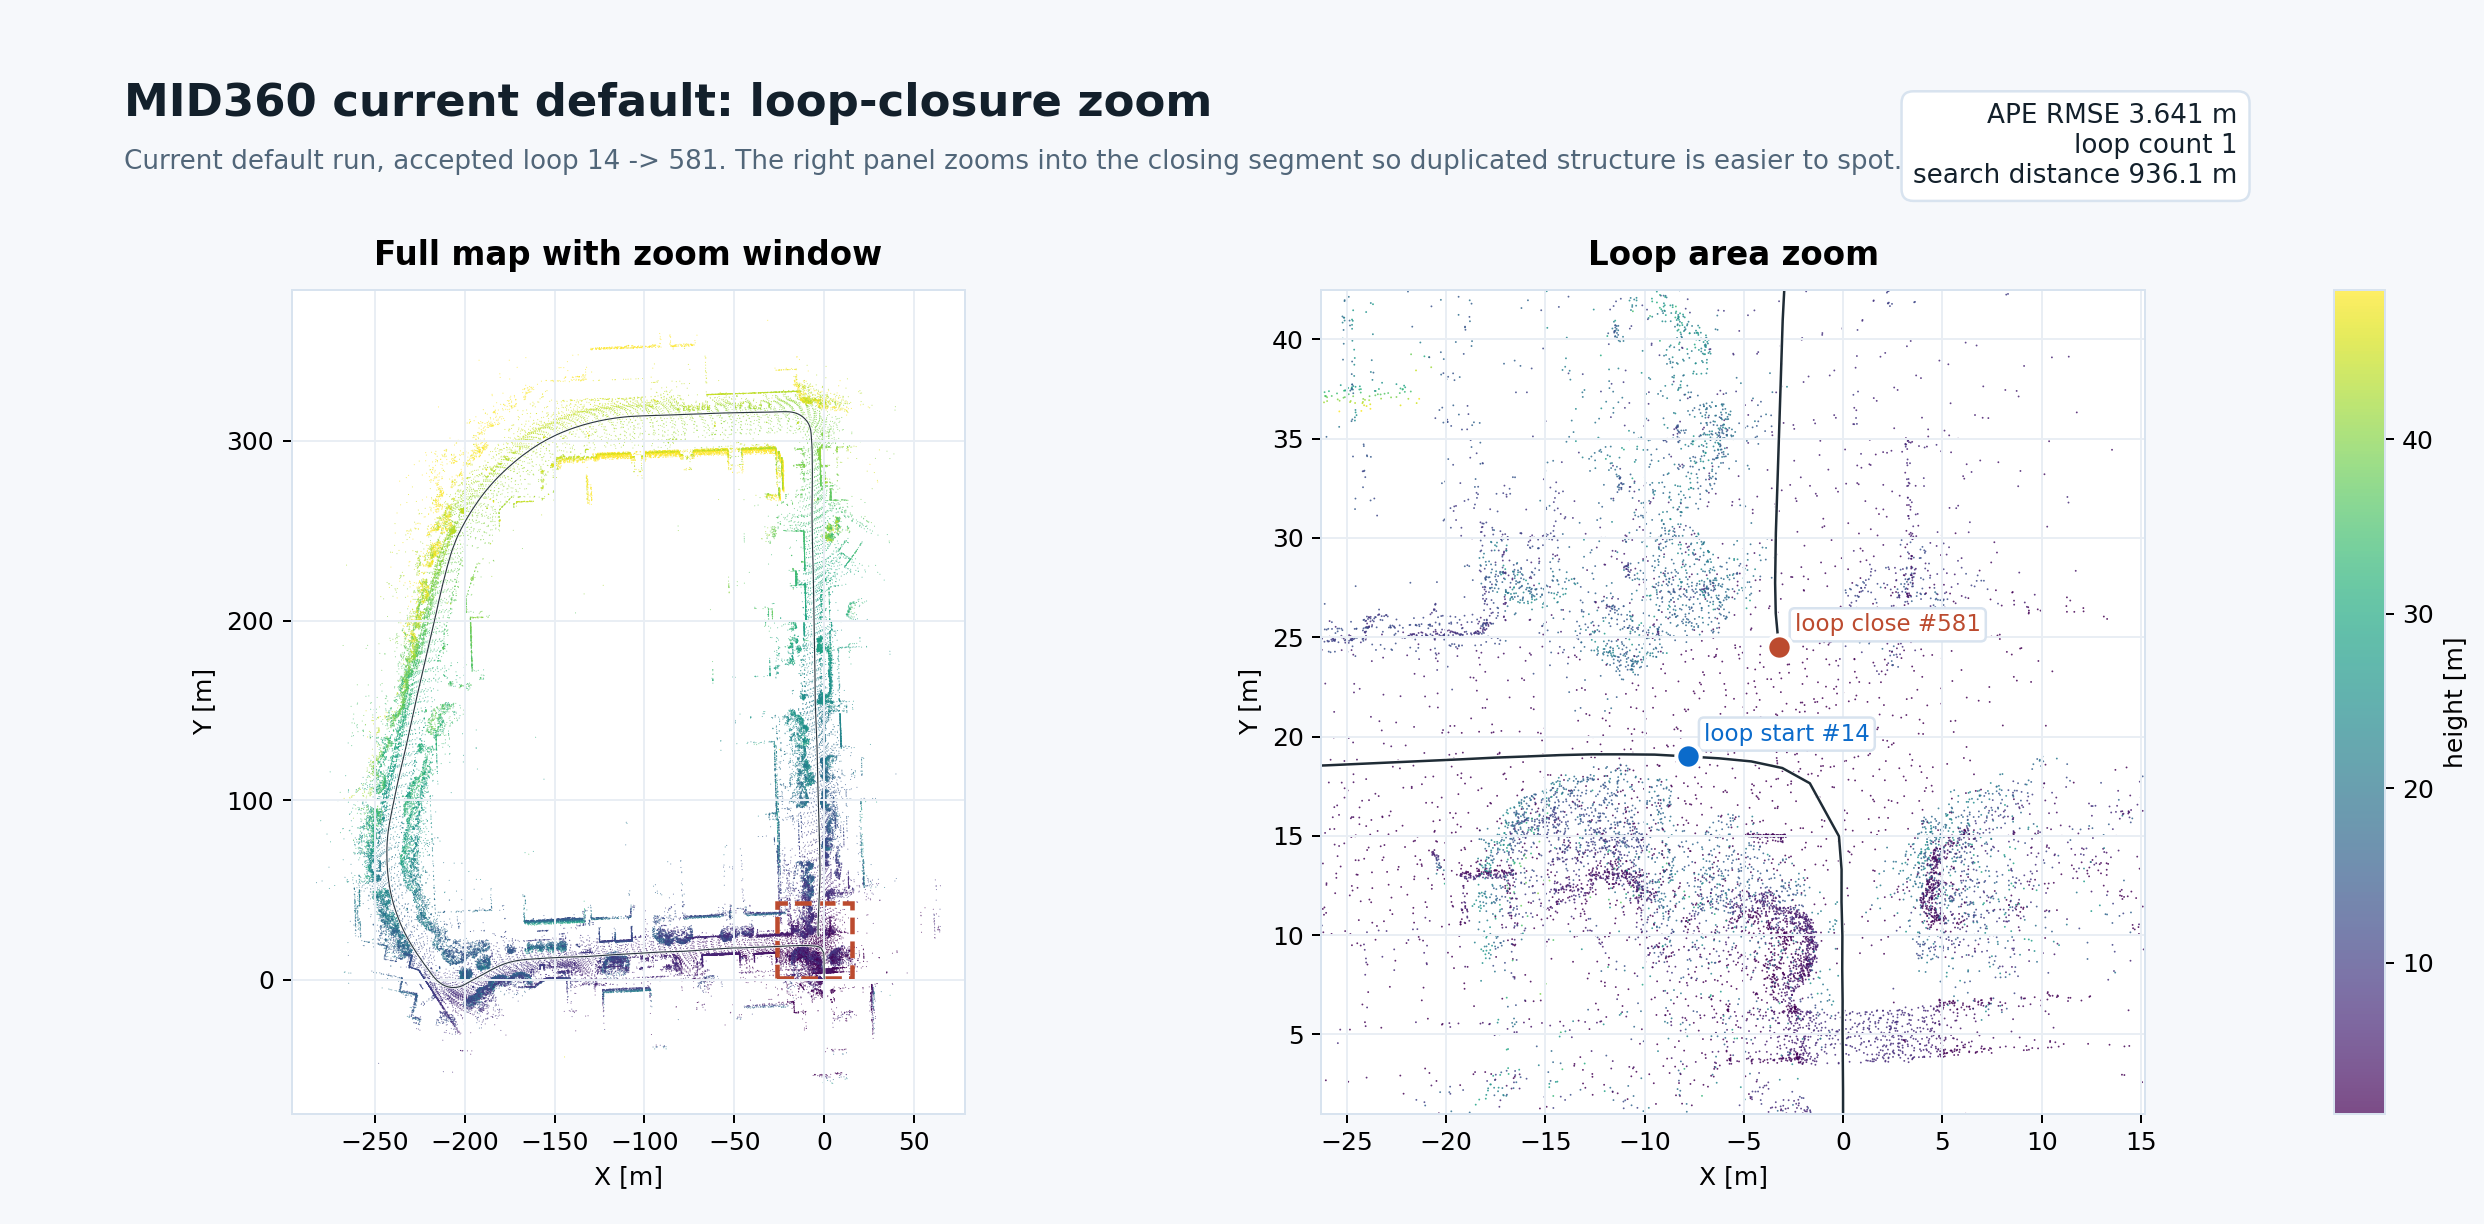
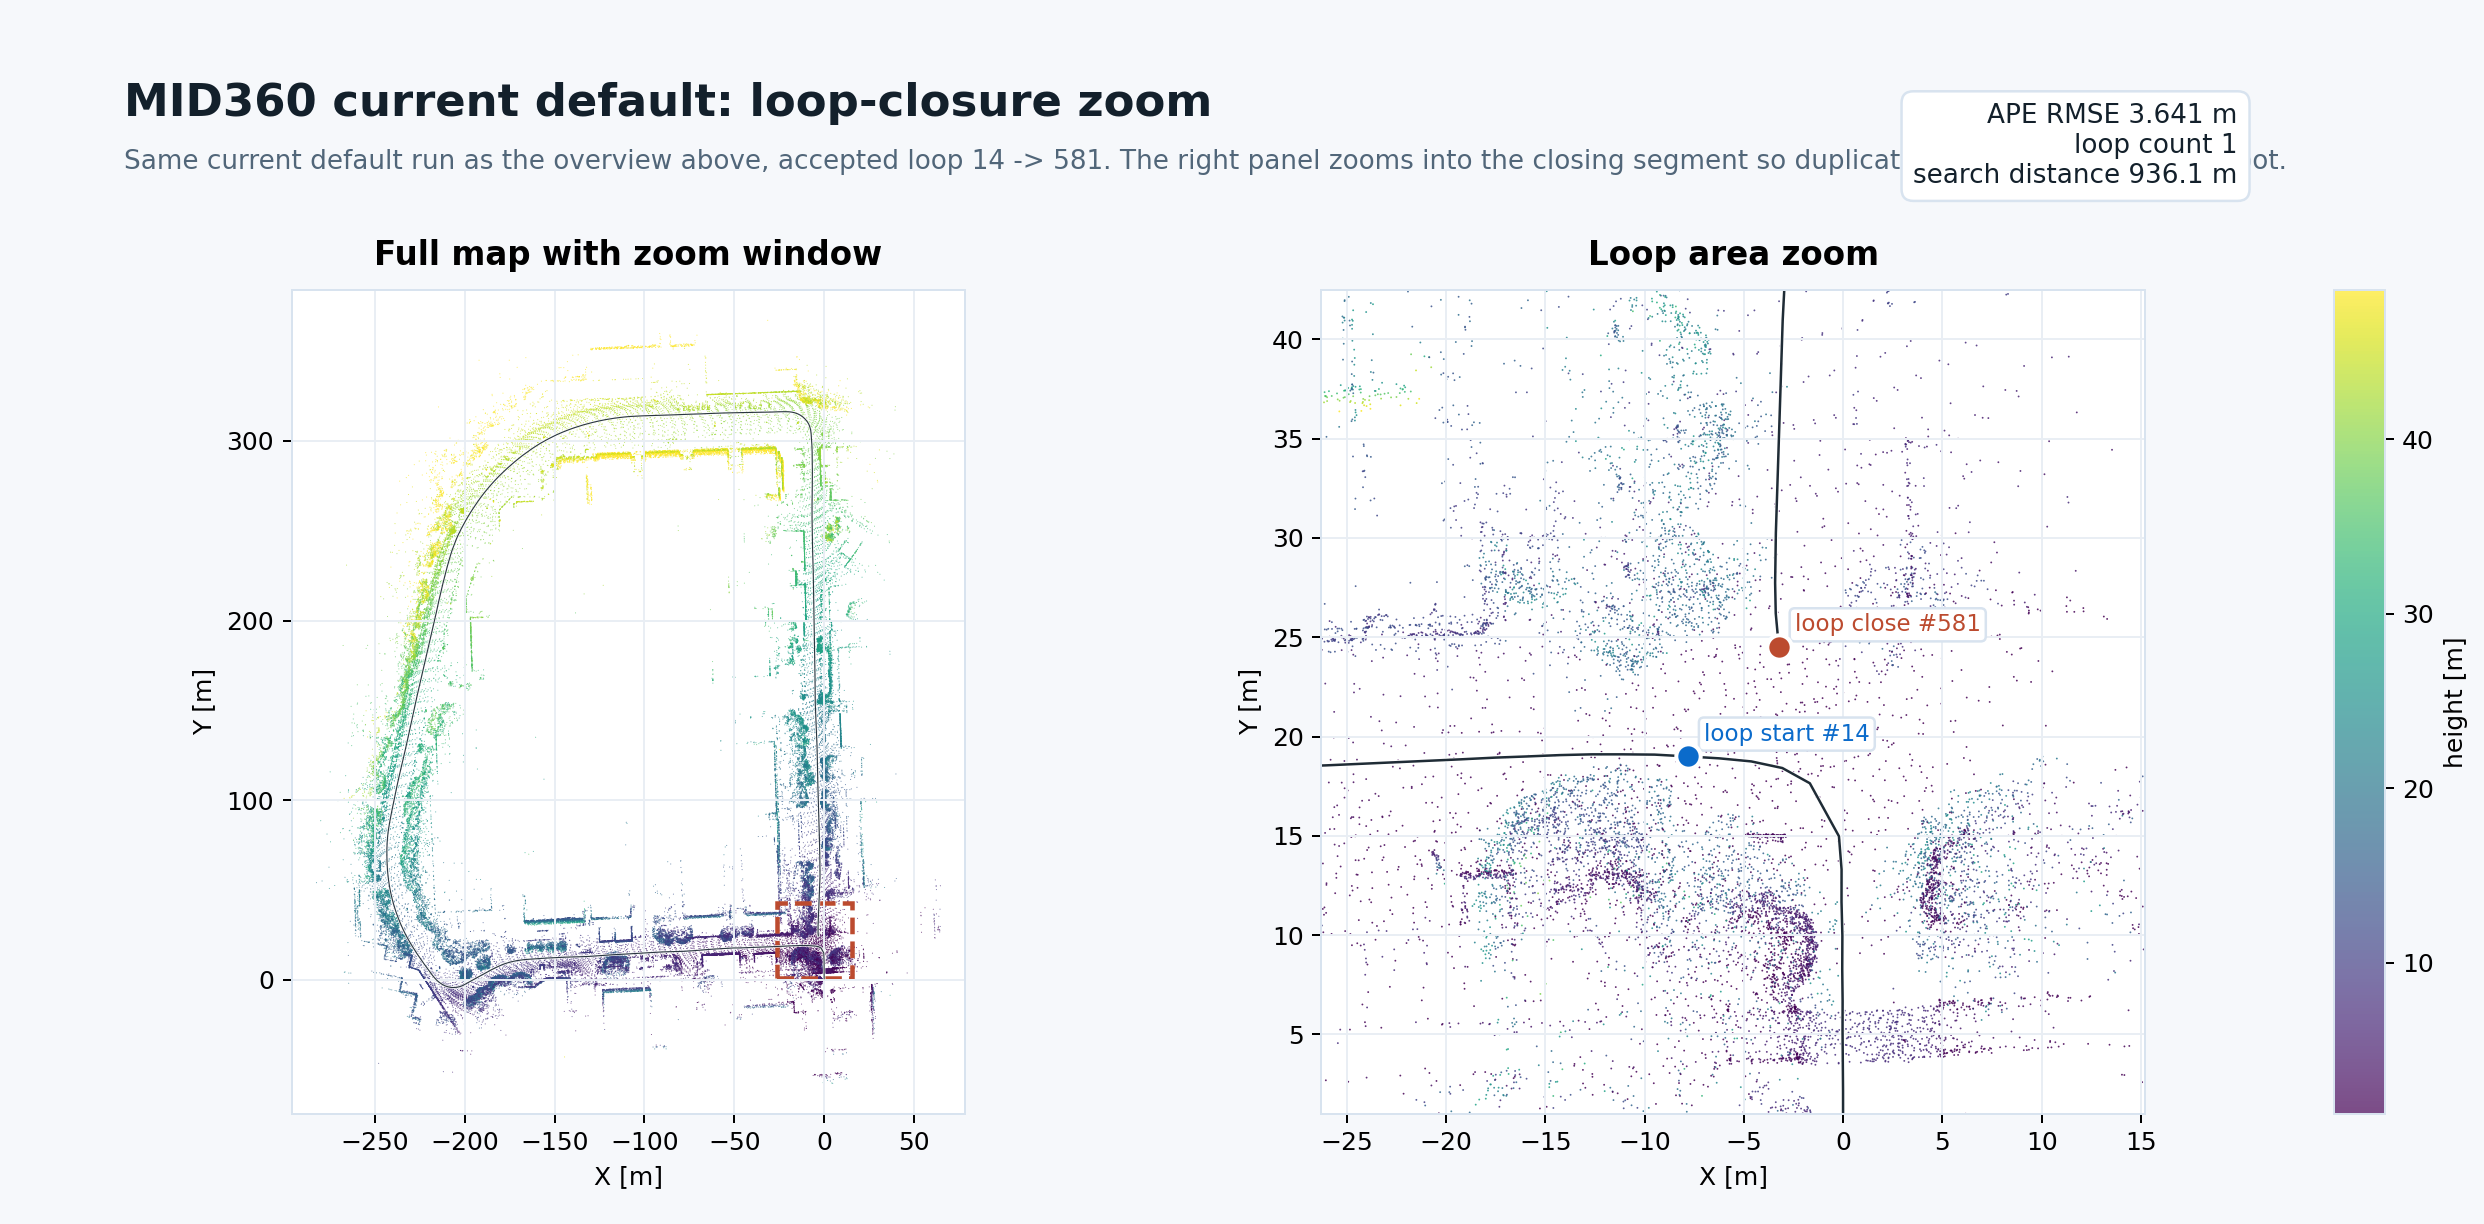
docs: align readme loop figures to one run

Changed region(s): [[0.062, 0.1242, 0.775, 0.1552]]

diff --git a/scripts/generate_readme_loop_zoom_figure.py b/scripts/generate_readme_loop_zoom_figure.py
@@ -12,13 +12,13 @@ import matplotlib.pyplot as plt
 import numpy as np
 
 import generate_readme_mid360_figures as mid360_fig
+from generate_readme_large_loop_map_figure import DEFAULT_MID360_METRICS
+from generate_readme_large_loop_map_figure import DEFAULT_MID360_TRAJ
 
 
 ROOT = Path(__file__).resolve().parents[1]
 IMAGE_DIR = ROOT / "lidarslam" / "images"
 DEFAULT_OUT = IMAGE_DIR / "mid360_loop_closure_zoom.png"
-DEFAULT_METRICS = ROOT / "output" / "bench_rko_lio_mid360_current_default_20260325" / "metrics.json"
-DEFAULT_TRAJ = ROOT / "output" / "bench_rko_lio_mid360_current_default_20260325" / "traj_corrected.tum"
 
 
 def _load_metrics(path: Path) -> dict:
@@ -121,7 +121,7 @@ def build_loop_zoom_png(
         0.0,
         0.40,
         (
-            f"Current default run, accepted loop {from_index} -> {to_index}. "
+            f"Same current default run as the overview above, accepted loop {from_index} -> {to_index}. "
             "The right panel zooms into the closing segment so duplicated structure is easier to spot."
         ),
         fontsize=10.5,
@@ -235,8 +235,8 @@ def parse_args() -> argparse.Namespace:
         description="Generate the README loop-closure zoom image for the MID360 default run.",
     )
     parser.add_argument("--bag", default=str(mid360_fig.BAG_PATH), help="ROS 2 bag used to reconstruct sampled map points")
-    parser.add_argument("--traj", default=str(DEFAULT_TRAJ), help="Corrected TUM trajectory for the published run")
-    parser.add_argument("--metrics", default=str(DEFAULT_METRICS), help="metrics.json containing the accepted loop edge")
+    parser.add_argument("--traj", default=str(DEFAULT_MID360_TRAJ), help="Corrected TUM trajectory for the published run")
+    parser.add_argument("--metrics", default=str(DEFAULT_MID360_METRICS), help="metrics.json containing the accepted loop edge")
     parser.add_argument("--out", default=str(DEFAULT_OUT), help="Output PNG path")
     parser.add_argument("--scan-stride", type=int, default=10, help="Use every Nth point-cloud message")
     parser.add_argument("--point-stride", type=int, default=24, help="Use every Nth point in each sampled cloud")

diff --git a/scripts/generate_readme_large_loop_map_figure.py b/scripts/generate_readme_large_loop_map_figure.py
@@ -21,10 +21,10 @@ import generate_readme_mid360_figures as mid360_fig
 ROOT = Path(__file__).resolve().parents[1]
 IMAGE_DIR = ROOT / "lidarslam" / "images"
 DEFAULT_OUT = IMAGE_DIR / "mid360_glim_map_compare.png"
-DEFAULT_METRICS = (
+DEFAULT_MID360_METRICS = (
     ROOT / "output" / "bench_rko_lio_mid360_current_default_20260325" / "metrics.json"
 )
-DEFAULT_TRAJ = (
+DEFAULT_MID360_TRAJ = (
     ROOT / "output" / "bench_rko_lio_mid360_current_default_20260325" / "traj_corrected.tum"
 )
 
@@ -201,8 +201,8 @@ def parse_args() -> argparse.Namespace:
         description="Generate the README large-loop overview image for the MID360 default run.",
     )
     parser.add_argument("--bag", default=str(mid360_fig.BAG_PATH))
-    parser.add_argument("--traj", default=str(DEFAULT_TRAJ))
-    parser.add_argument("--metrics", default=str(DEFAULT_METRICS))
+    parser.add_argument("--traj", default=str(DEFAULT_MID360_TRAJ))
+    parser.add_argument("--metrics", default=str(DEFAULT_MID360_METRICS))
     parser.add_argument("--out", default=str(DEFAULT_OUT))
     parser.add_argument("--scan-stride", type=int, default=10)
     parser.add_argument("--point-stride", type=int, default=24)

diff --git a/README.md b/README.md
@@ -91,7 +91,7 @@ Representative large-loop point-cloud map from the current MID360 default run. C
 
 ![Representative top-down point-cloud map](lidarslam/images/mid360_glim_map_compare.png)
 
-Loop-area zoom from the current MID360 default run. This view is meant to make closing-segment duplication easier to judge visually.
+Loop-area zoom from the same current MID360 default run. This view is meant to make closing-segment duplication easier to judge visually.
 
 ![MID360 loop-closure zoom](lidarslam/images/mid360_loop_closure_zoom.png)
 
